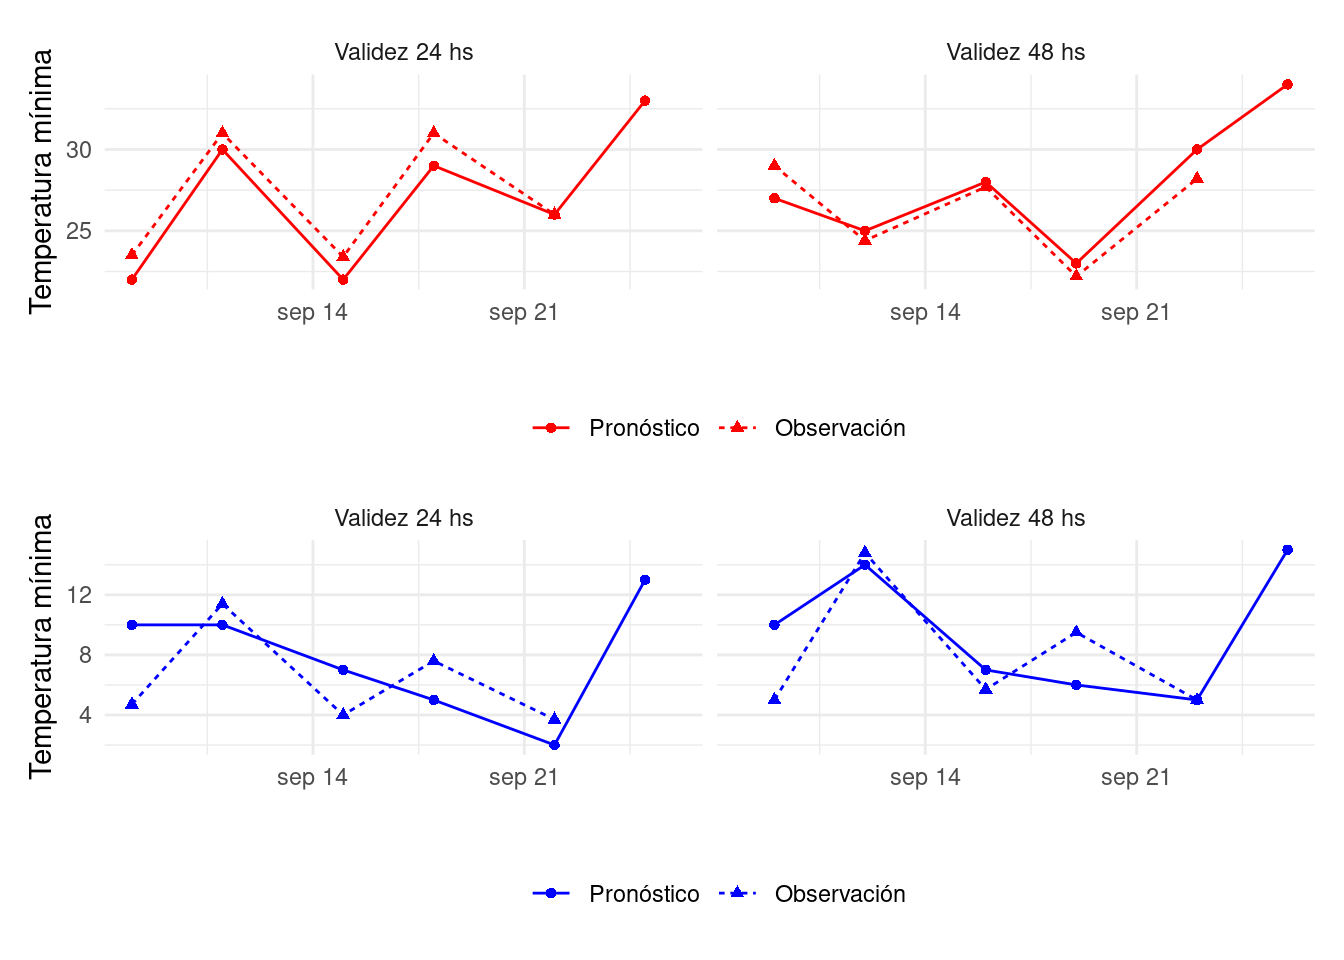
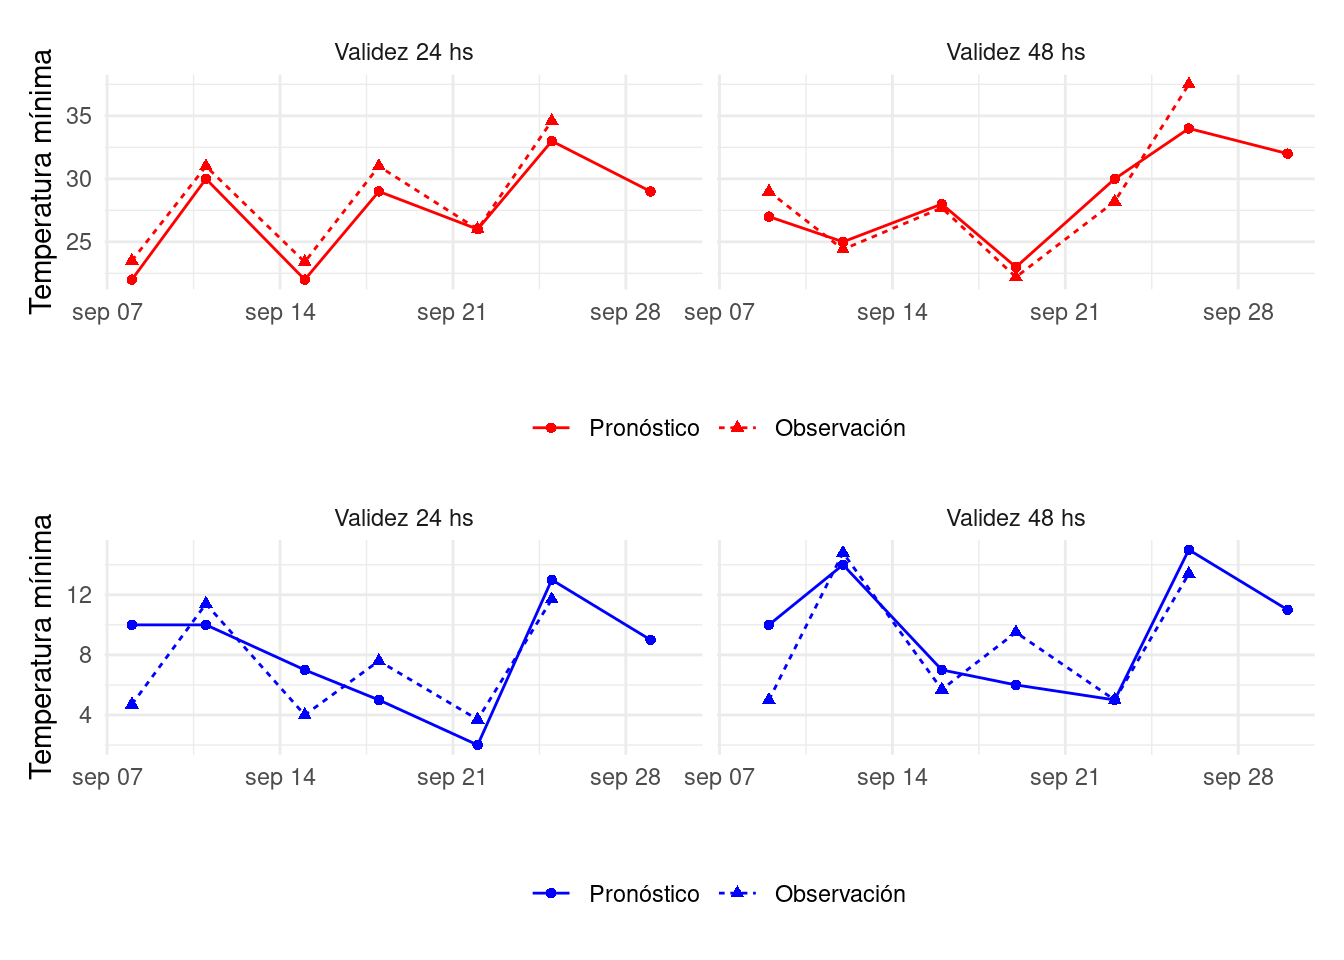
Build con pronostico generado el 28/09

diff --git a/docs/index.html b/docs/index.html
@@ -307,8 +307,8 @@ $(document).ready(function () {
 </div>
 
 
-<div id="análisis-del-día-24-de-septiembre-de-2020" class="section level2">
-<h2>Análisis del día 24 de septiembre de 2020</h2>
+<div id="análisis-del-día-28-de-septiembre-de-2020" class="section level2">
+<h2>Análisis del día 28 de septiembre de 2020</h2>
 <div id="ciudad-de-buenos-aires" class="section level3">
 <h3>Ciudad de Buenos Aires</h3>
 <table class="table table-responsive" style="margin-left: auto; margin-right: auto;">
@@ -339,48 +339,48 @@ Viento
 <tbody>
 <tr>
 <td style="text-align:left;">
-25/09/2020
+29/09/2020
 </td>
 <td style="text-align:left;max-width: 22em; ">
-Se esperan tormentas y lluvias durante todo el día con vientos moderados del NE - E y poca amplitud termica.
+Se espera buen tiempo con cielos algo nublados a despejados por la tarde y vientos leves del norte. La temperatura máxima rondará entre los 22 y los 24° mientras que la mínima se espera entre los 12 y 13 °.
 </td>
 <td style="text-align:center;color: red !important;">
-18 °
+23 °
+</td>
+<td style="text-align:center;color: blue !important;">
+12 °
+</td>
+<td style="text-align:center;max-width: 7em; ">
+Algo nublado
+</td>
+<td style="text-align:center;">
+N
+</td>
+<td style="text-align:center;">
+<img src="img/algo-nublado.png" width="60" />
+</td>
+</tr>
+<tr>
+<td style="text-align:left;">
+30/09/2020
+</td>
+<td style="text-align:left;max-width: 22em; ">
+Se espera buen tiempo con cielo parcialmente nublados y aumentando hacia las últimas horas del día. Se espera un leve aumento de la temperatura con máximas de entre 24 y 27° y mínimas alrededor de 15°.
+</td>
+<td style="text-align:center;color: red !important;">
+25 °
 </td>
 <td style="text-align:center;color: blue !important;">
 15 °
 </td>
 <td style="text-align:center;max-width: 7em; ">
-Nubosidad
-</td>
-<td style="text-align:center;">
-NE - E
-</td>
-<td style="text-align:center;">
-<img src="img/tormentas.png" width="60" />
-</td>
-</tr>
-<tr>
-<td style="text-align:left;">
-26/09/2020
-</td>
-<td style="text-align:left;max-width: 22em; ">
-Se espera que continuen las tormentas durante la noche y parte del día, con lluvias de menor intensidad hacia la tarde y noche. Se espera muy poca amplitud térmica y alto contenido de humedad.
-</td>
-<td style="text-align:center;color: red !important;">
-19 °
-</td>
-<td style="text-align:center;color: blue !important;">
-16 °
-</td>
-<td style="text-align:center;max-width: 7em; ">
-Nubosidad
+Parcialmente nublado
 </td>
 <td style="text-align:center;">
 NE
 </td>
 <td style="text-align:center;">
-<img src="img/tormentas.png" width="60" />
+<img src="img/parcialmente-nublado.png" width="60" />
 </td>
 </tr>
 </tbody>
@@ -416,48 +416,48 @@ Viento
 <tbody>
 <tr>
 <td style="text-align:left;">
-25/09/2020
+29/09/2020
 </td>
 <td style="text-align:left;max-width: 22em; ">
-Se espera buen tiempo con tiempo despejado a algo nublado con presencia de cumulos de buen tiempo. Humedad en aumento debido a viento del N.
+Se espera buen tiempo con nubosidad en aumento a lo largo del día. El viento será leve a moderado y predominante del norte. Se esperan temperaturas mínimas de entre 8 y 10 grados y máximas de entre 27 y 29 grados.
 </td>
 <td style="text-align:center;color: red !important;">
-33 °
+29 °
 </td>
 <td style="text-align:center;color: blue !important;">
-13 °
+9 °
 </td>
 <td style="text-align:center;max-width: 7em; ">
-Algo nublado
+Parcialmente nublado
 </td>
 <td style="text-align:center;">
 N
 </td>
 <td style="text-align:center;">
-<img src="img/algo-nublado.png" width="60" />
+<img src="img/parcialmente-nublado.png" width="60" />
 </td>
 </tr>
 <tr>
 <td style="text-align:left;">
-26/09/2020
+30/09/2020
 </td>
 <td style="text-align:left;max-width: 22em; ">
-Se esperan cielos algo nublados durante el día con un aumento de la nubosidad por la tarde-noche. La temperatura irá en aumento debido al flujo del norte que se mantendrá durante las primeras horas del día acompañado de un aumento en la humedad. Hacía el final del día el viento rotará hacia el S.
+Se espera un día con algo de nubosidad que podría aumentar durante horas de la tarde. Las temperaturas iran en aumento con máximas entre 31 y 33 grados
 </td>
 <td style="text-align:center;color: red !important;">
-34 °
+32 °
 </td>
 <td style="text-align:center;color: blue !important;">
-15 °
+11 °
 </td>
 <td style="text-align:center;max-width: 7em; ">
-Mayormente nublado
+Parcialmente nublado
 </td>
 <td style="text-align:center;">
-NE
+NA
 </td>
 <td style="text-align:center;">
-<img src="img/mayormente-nublado.png" width="60" />
+<img src="img/parcialmente-nublado.png" width="60" />
 </td>
 </tr>
 </tbody>
@@ -493,48 +493,48 @@ Viento
 <tbody>
 <tr>
 <td style="text-align:left;">
-25/09/2020
+29/09/2020
 </td>
 <td style="text-align:left;max-width: 22em; ">
-Se esperan cielos nublados con alta probabilidad de tormentas aisladas y chaparrones por la tarde. El viento se mantendrá del norte favoreciendo el aumento de la humedad y manteniendo la temperatura en valores cálidos.
+Se espera buen tiempo con cielos depejados y vientos moderados predominantes del norte. La temperatura máxima se espera entre 30 y 32 grados y la mínima de entre 12 y 14 grados
 </td>
 <td style="text-align:center;color: red !important;">
-30 °
+31 °
 </td>
 <td style="text-align:center;color: blue !important;">
-16 °
+13 °
 </td>
 <td style="text-align:center;max-width: 7em; ">
-Nublado
+Despejado
 </td>
 <td style="text-align:center;">
 N
 </td>
 <td style="text-align:center;">
-<img src="img/tormentas-aisladas.png" width="60" />
+<img src="img/despejado.png" width="60" />
 </td>
 </tr>
 <tr>
 <td style="text-align:left;">
-26/09/2020
+30/09/2020
 </td>
 <td style="text-align:left;max-width: 22em; ">
-Se espera que continuen las tormentas durante la noche y parte del día lo que generará una disminución de la temperatura favorecido también por viento con componente del sur.
+Durante el día se espera buen tiempo con cielos despejados a algo nublados con vientos leves del norte rotando al sur por la tarde noche. Se espera una máxima de entre 31 y 34° y una mínima de entre 14 y 16 grados.
 </td>
 <td style="text-align:center;color: red !important;">
-25 °
+32 °
 </td>
 <td style="text-align:center;color: blue !important;">
-17 °
+14 °
 </td>
 <td style="text-align:center;max-width: 7em; ">
-Nublado
+Algo nublado
 </td>
 <td style="text-align:center;">
-S
+N-S
 </td>
 <td style="text-align:center;">
-<img src="img/tormentas-aisladas.png" width="60" />
+<img src="img/algo-nublado.png" width="60" />
 </td>
 </tr>
 </tbody>

diff --git a/docs/buenos-aires-val.html b/docs/buenos-aires-val.html
@@ -344,13 +344,13 @@ RMSE
 Temperatura máxima
 </td>
 <td style="text-align:center;">
--0.93
+-1.01
 </td>
 <td style="text-align:center;">
-1.77
+1.73
 </td>
 <td style="text-align:center;">
-1.98
+1.82
 </td>
 </tr>
 <tr>
@@ -361,13 +361,13 @@ Temperatura máxima
 Temperatura máxima
 </td>
 <td style="text-align:center;">
--1.44
+-1.45
 </td>
 <td style="text-align:center;">
-1.44
+1.45
 </td>
 <td style="text-align:center;">
-1.19
+1.07
 </td>
 </tr>
 <tr>
@@ -378,13 +378,13 @@ Temperatura máxima
 Temperatura mínima
 </td>
 <td style="text-align:center;">
--1.72
+-1.40
 </td>
 <td style="text-align:center;">
-1.72
+1.54
 </td>
 <td style="text-align:center;">
-1.33
+1.48
 </td>
 </tr>
 <tr>
@@ -395,13 +395,13 @@ Temperatura mínima
 Temperatura mínima
 </td>
 <td style="text-align:center;">
-1.08
+1.15
 </td>
 <td style="text-align:center;">
-1.92
+1.85
 </td>
 <td style="text-align:center;">
-2.17
+1.95
 </td>
 </tr>
 </tbody>

diff --git a/docs/salta-aero-val.html b/docs/salta-aero-val.html
@@ -344,13 +344,13 @@ RMSE
 Temperatura máxima
 </td>
 <td style="text-align:center;">
--1.18
+-1.25
 </td>
 <td style="text-align:center;">
-1.18
+1.25
 </td>
 <td style="text-align:center;">
-0.75
+0.69
 </td>
 </tr>
 <tr>
@@ -361,13 +361,13 @@ Temperatura máxima
 Temperatura máxima
 </td>
 <td style="text-align:center;">
-0.30
+-0.33
 </td>
 <td style="text-align:center;">
-1.10
+1.50
 </td>
 <td style="text-align:center;">
-1.40
+2.00
 </td>
 </tr>
 <tr>
@@ -378,13 +378,13 @@ Temperatura máxima
 Temperatura mínima
 </td>
 <td style="text-align:center;">
-0.52
+0.65
 </td>
 <td style="text-align:center;">
-2.80
+2.55
 </td>
 <td style="text-align:center;">
-3.44
+3.09
 </td>
 </tr>
 <tr>
@@ -395,13 +395,13 @@ Temperatura mínima
 Temperatura mínima
 </td>
 <td style="text-align:center;">
-0.40
+0.60
 </td>
 <td style="text-align:center;">
-2.12
+2.03
 </td>
 <td style="text-align:center;">
-3.11
+2.83
 </td>
 </tr>
 </tbody>
